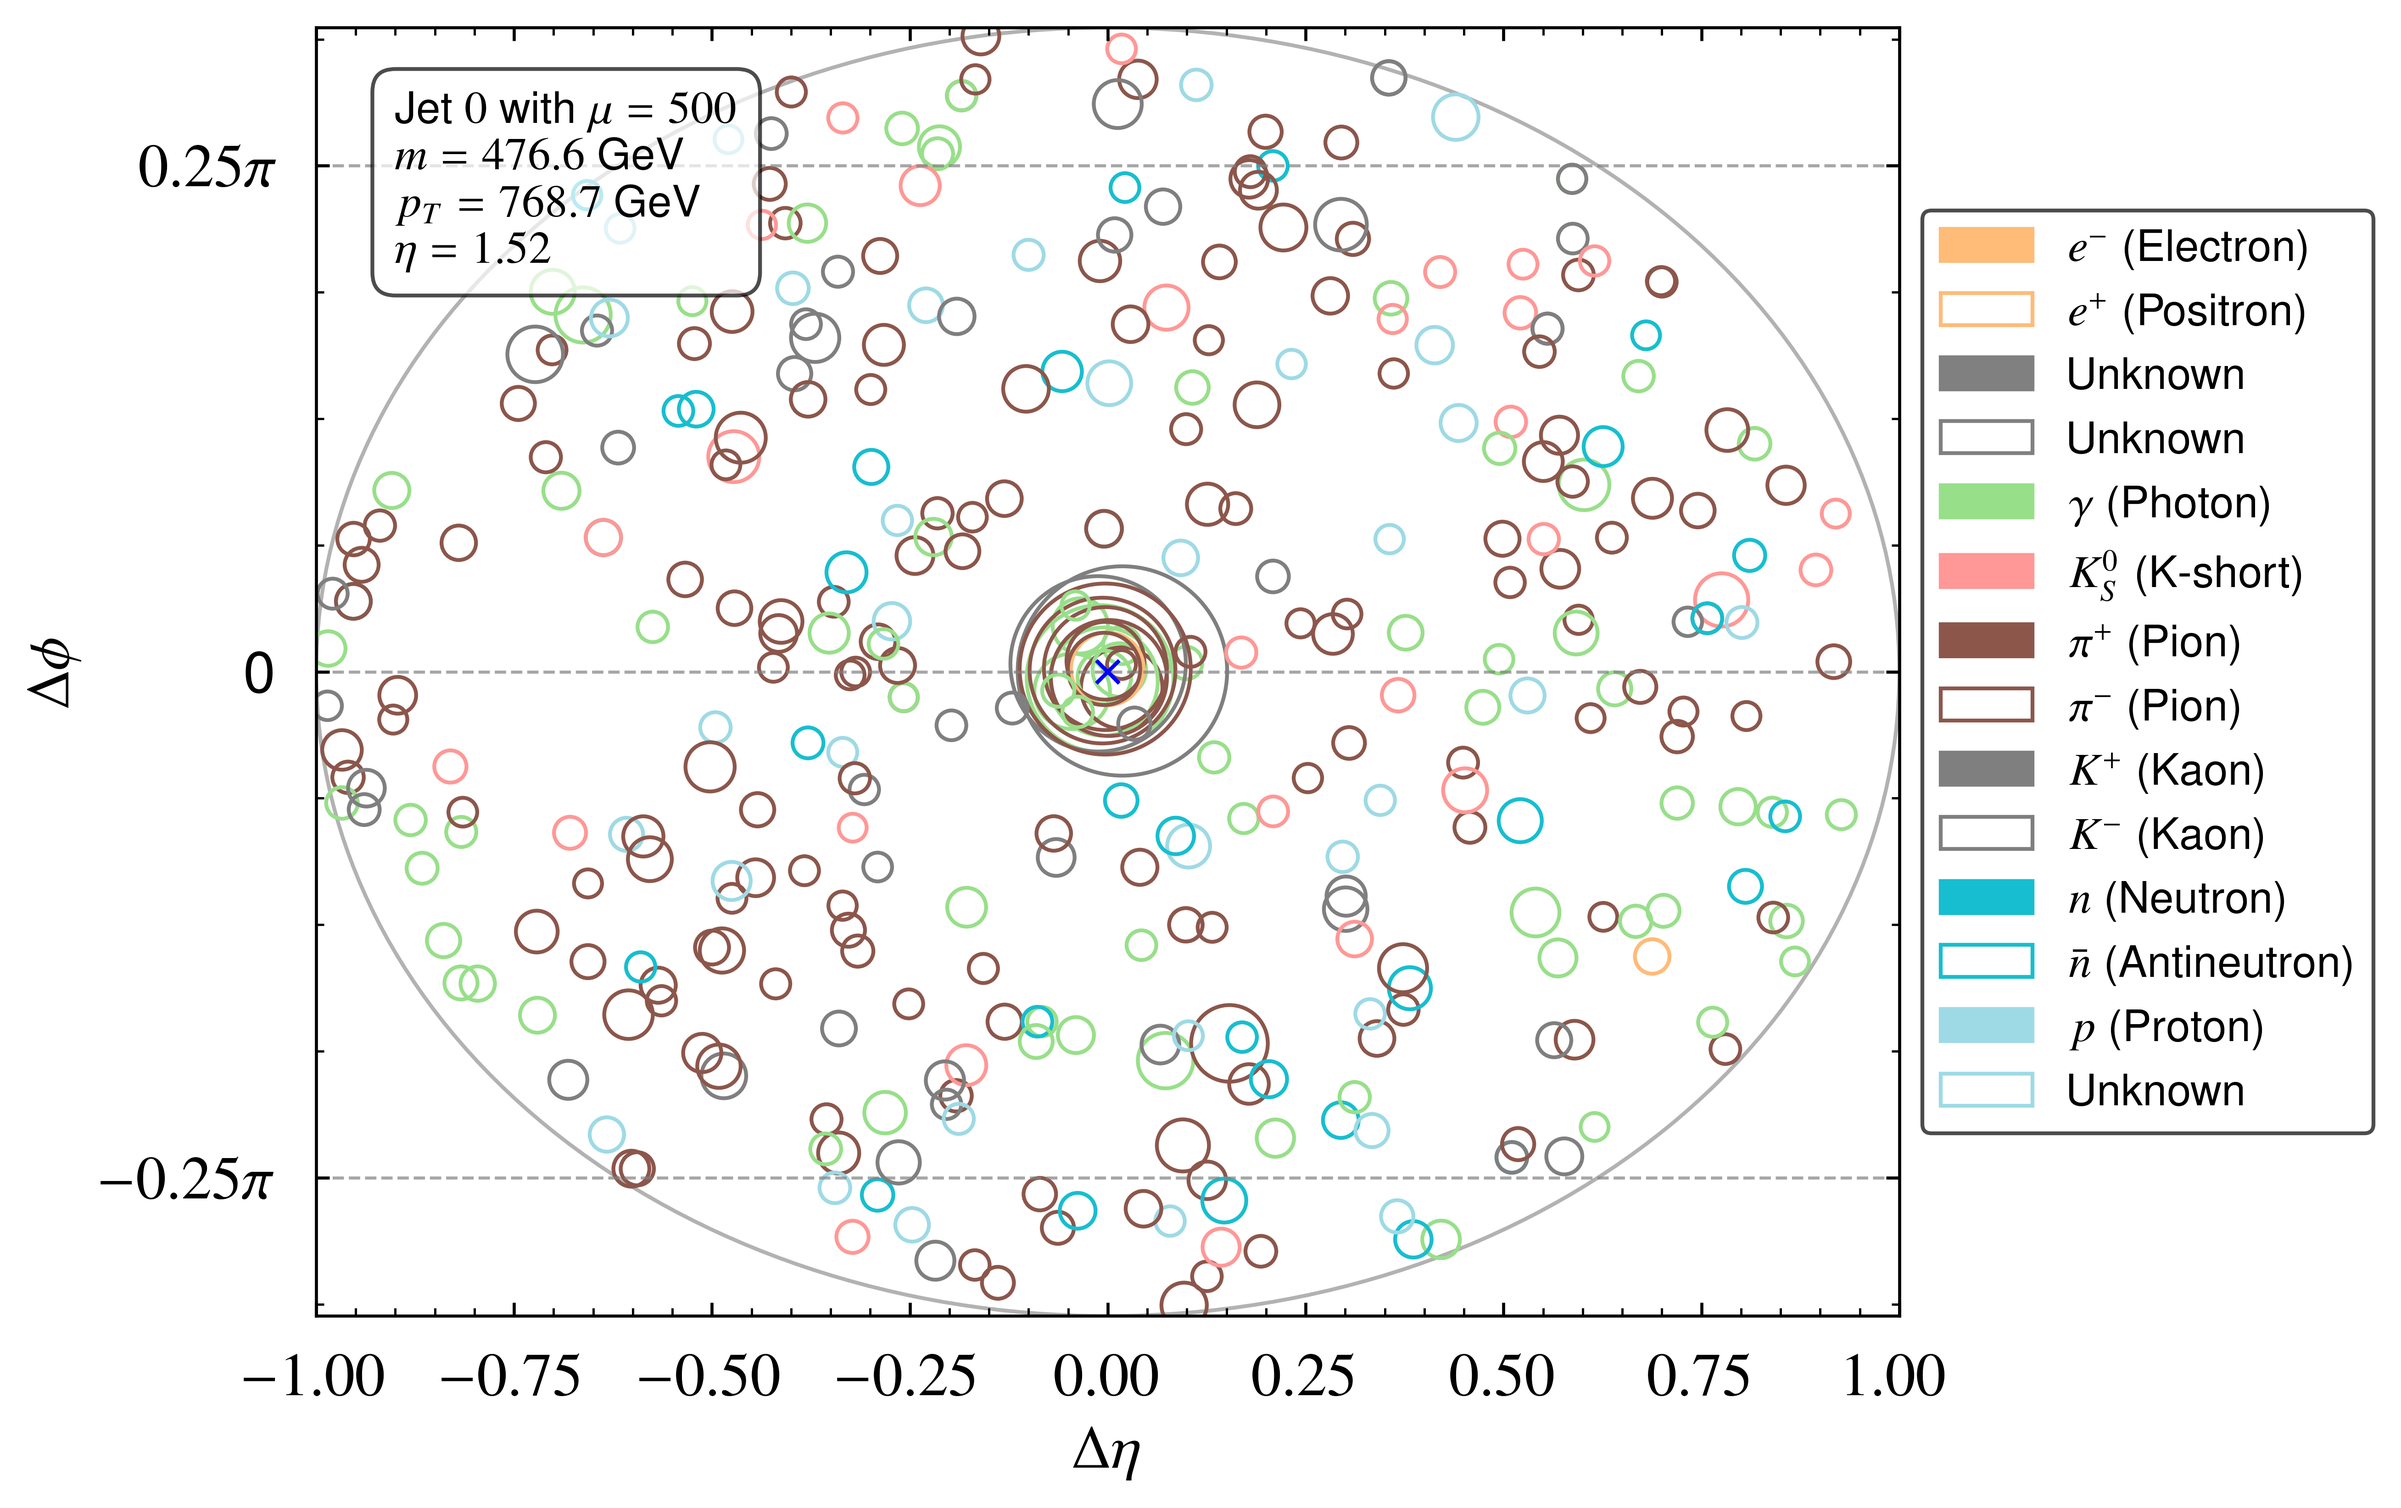
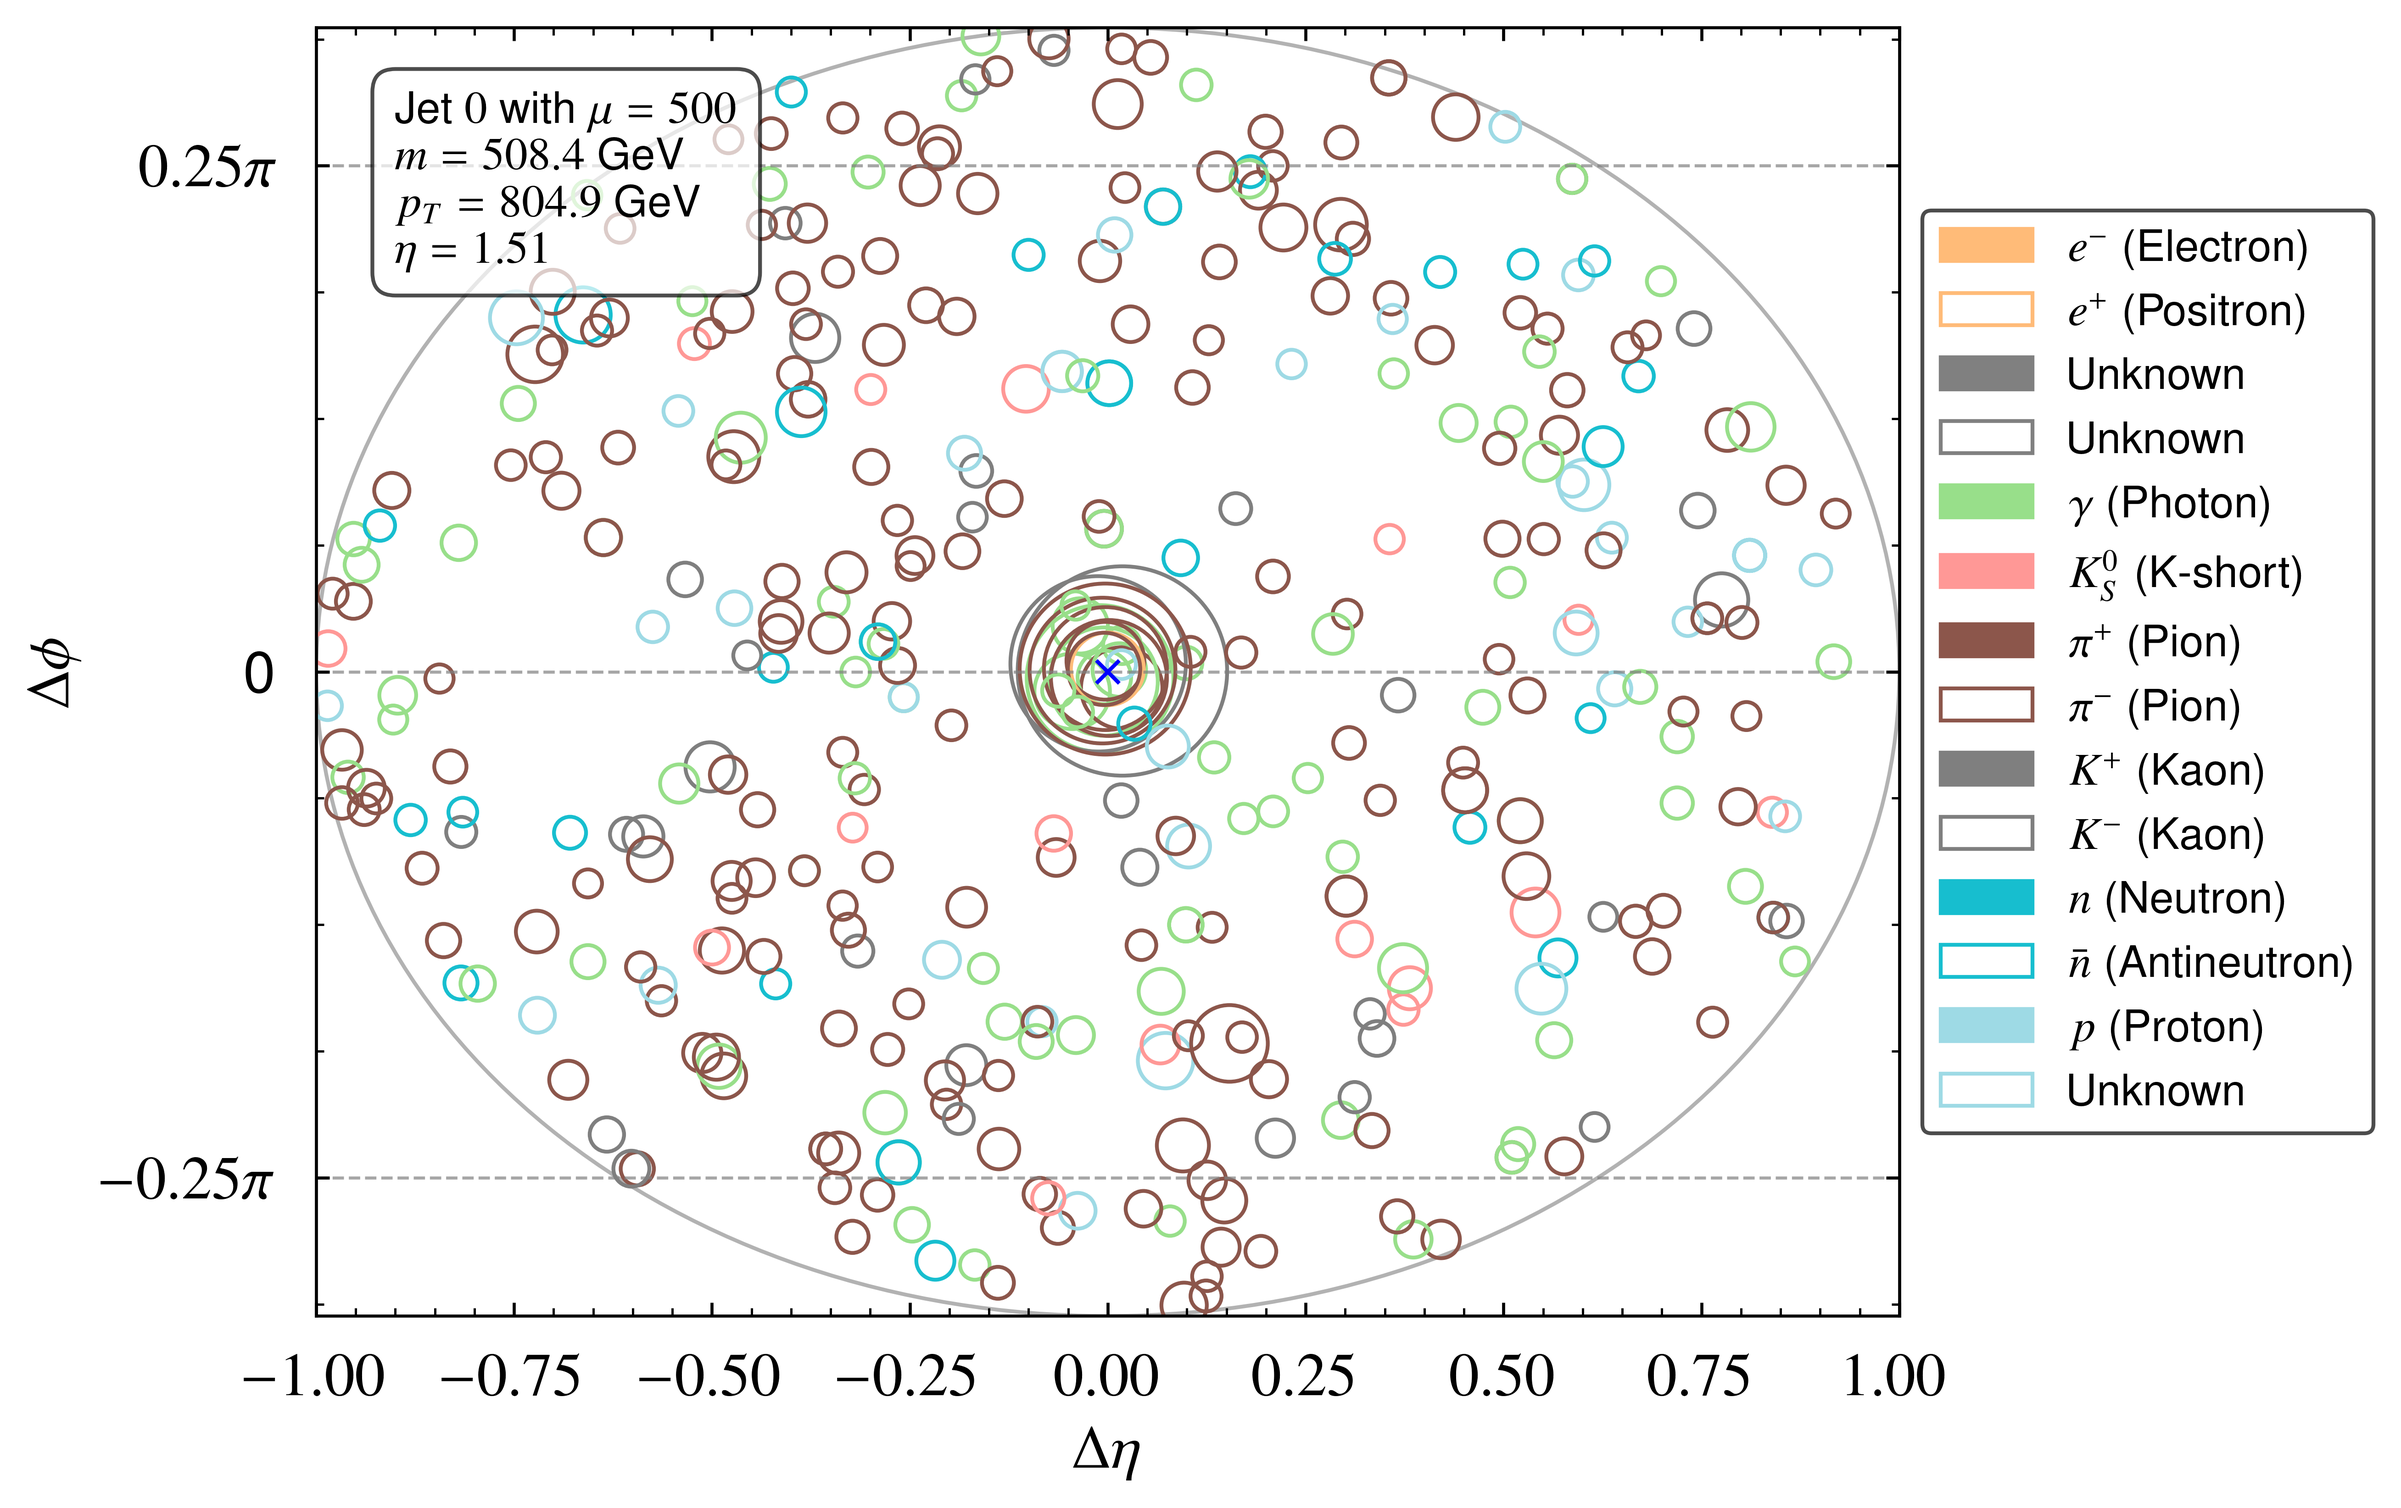
Add NoisyGenerator.select_jet() to skip to any jet no easily.

diff --git a/DDPMLHC/main_rs.py b/DDPMLHC/main_rs.py
@@ -62,5 +62,10 @@ for mu in [0, 50, 500]:
     generator.visualise_current_event()
     generator.visualise_current_event(show_pdgids=True)
 
+    generator.select_jet(42)
+    generator.bmap_current_event()
+    generator.visualise_current_event()
+    generator.visualise_current_event(show_pdgids=True)
+
 # print(generator.vectorise(for_bmap=True).reshape((BMAP_SQUARE_SIDE_LENGTH, BMAP_SQUARE_SIDE_LENGTH)), "\n")
 # print(generator.vectorise(for_bmap=False).reshape((BMAP_SQUARE_SIDE_LENGTH, BMAP_SQUARE_SIDE_LENGTH)))

diff --git a/DDPMLHC/data_loading.py b/DDPMLHC/data_loading.py
@@ -148,6 +148,12 @@ class NoisyGenerator:
         self._next_jetID += 1
         return self.current_event
 
+    def select_jet(self, jet_no):
+        if jet_no >= self._max_TT_no:
+            raise RuntimeError("Requested jet not in loaded set. Did nothing.")
+        self._next_jetID = jet_no
+        next(self)
+
     def _build_next_noisy_event(self):
         jet_event = self.tt.select_event(self._next_jetID)
         jet_px, jet_py, jet_pz = jet_event[:,3], jet_event[:,4], jet_event[:,5]
